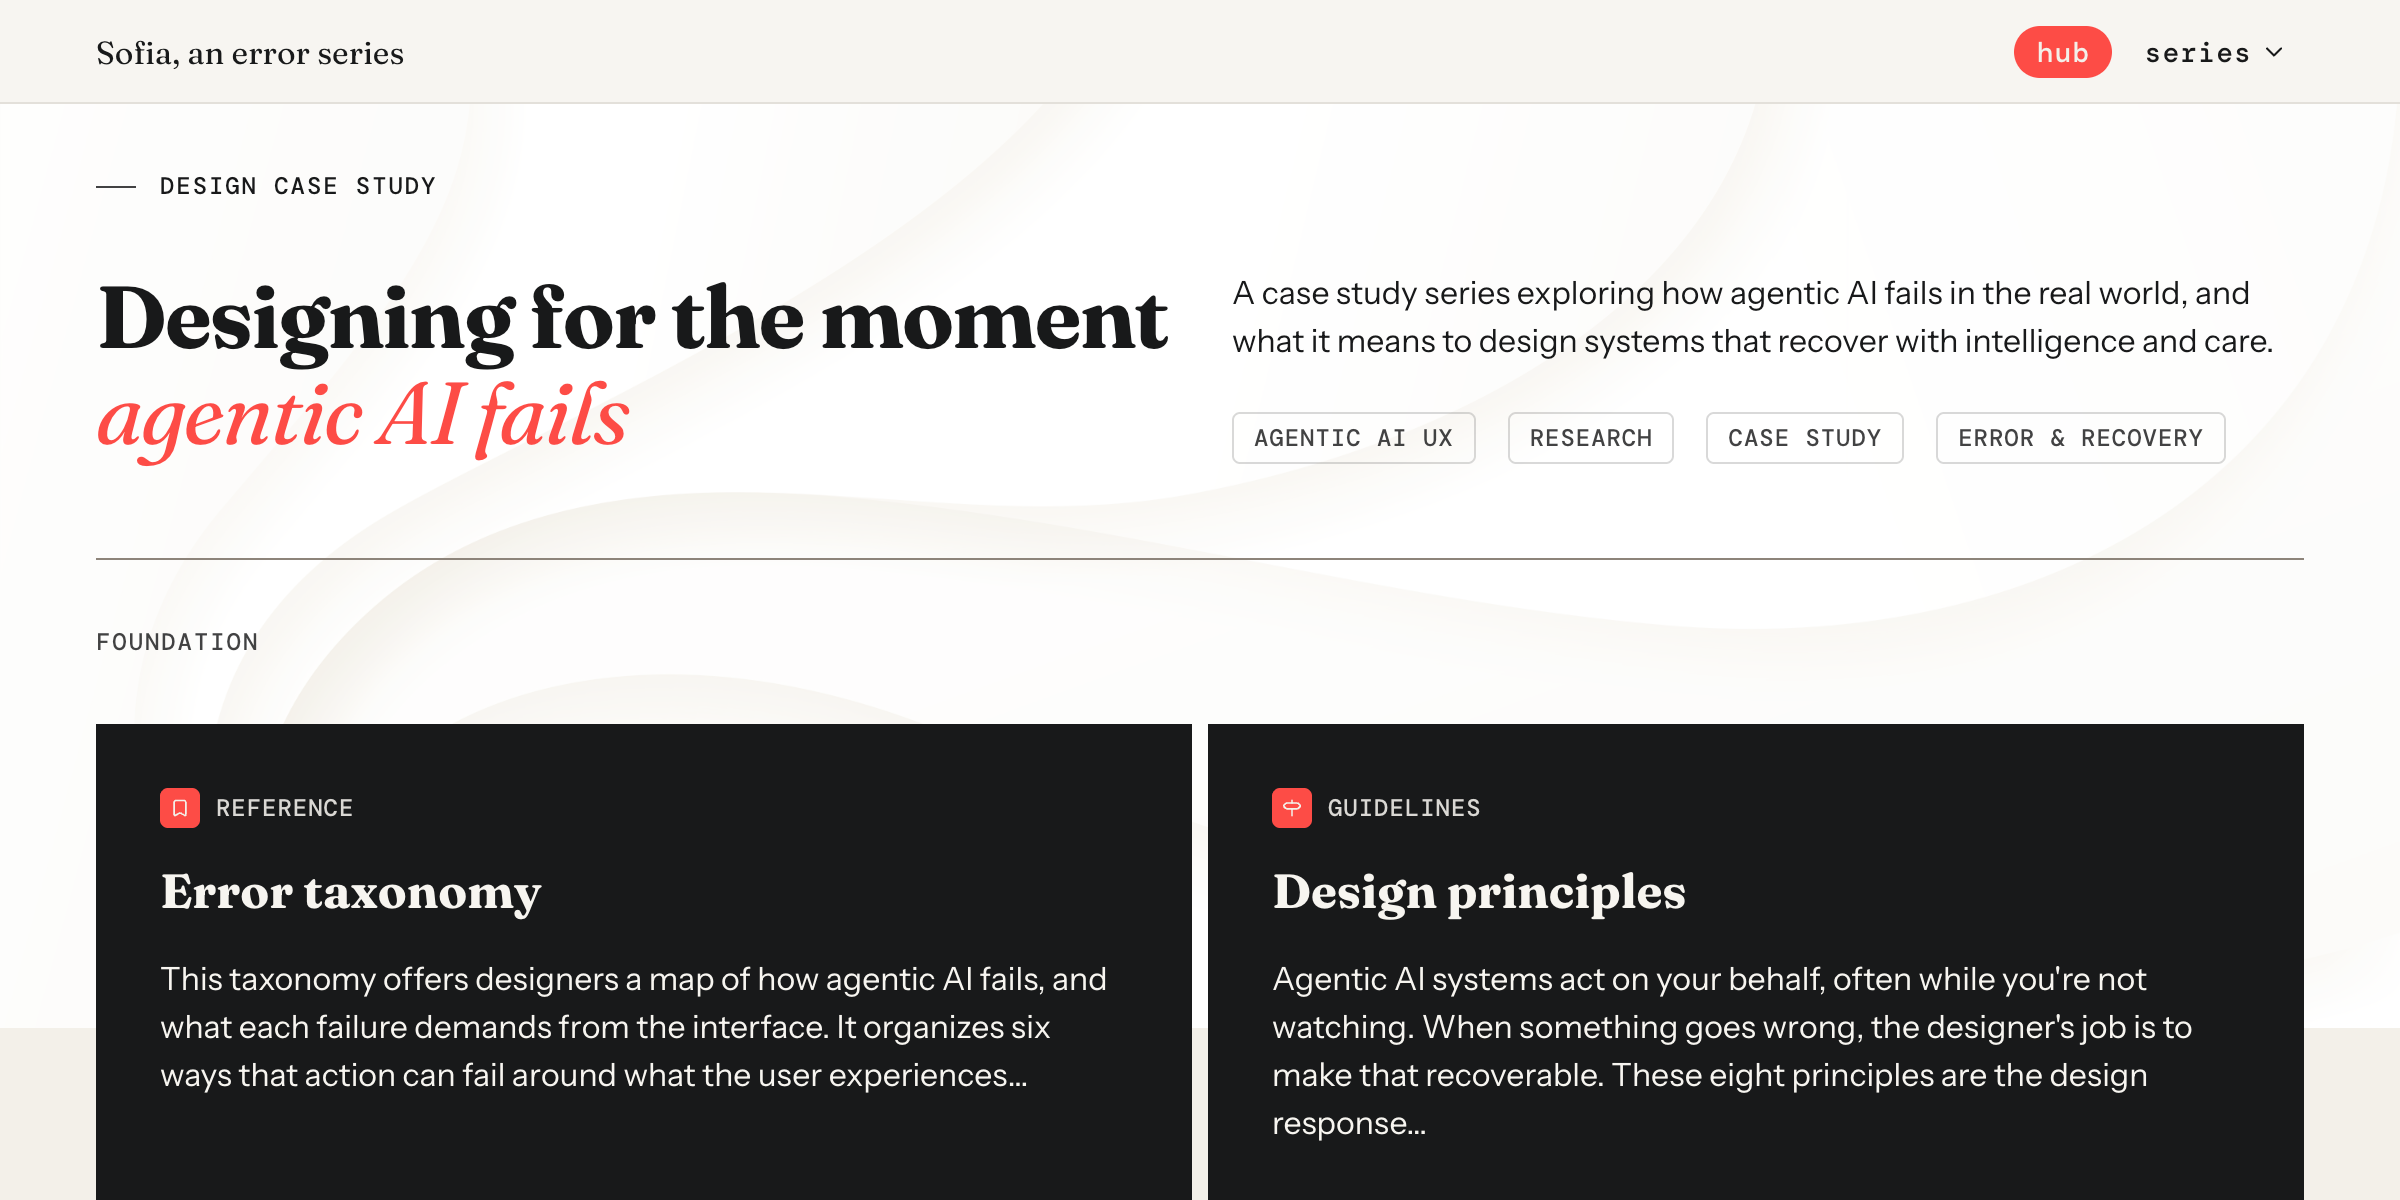
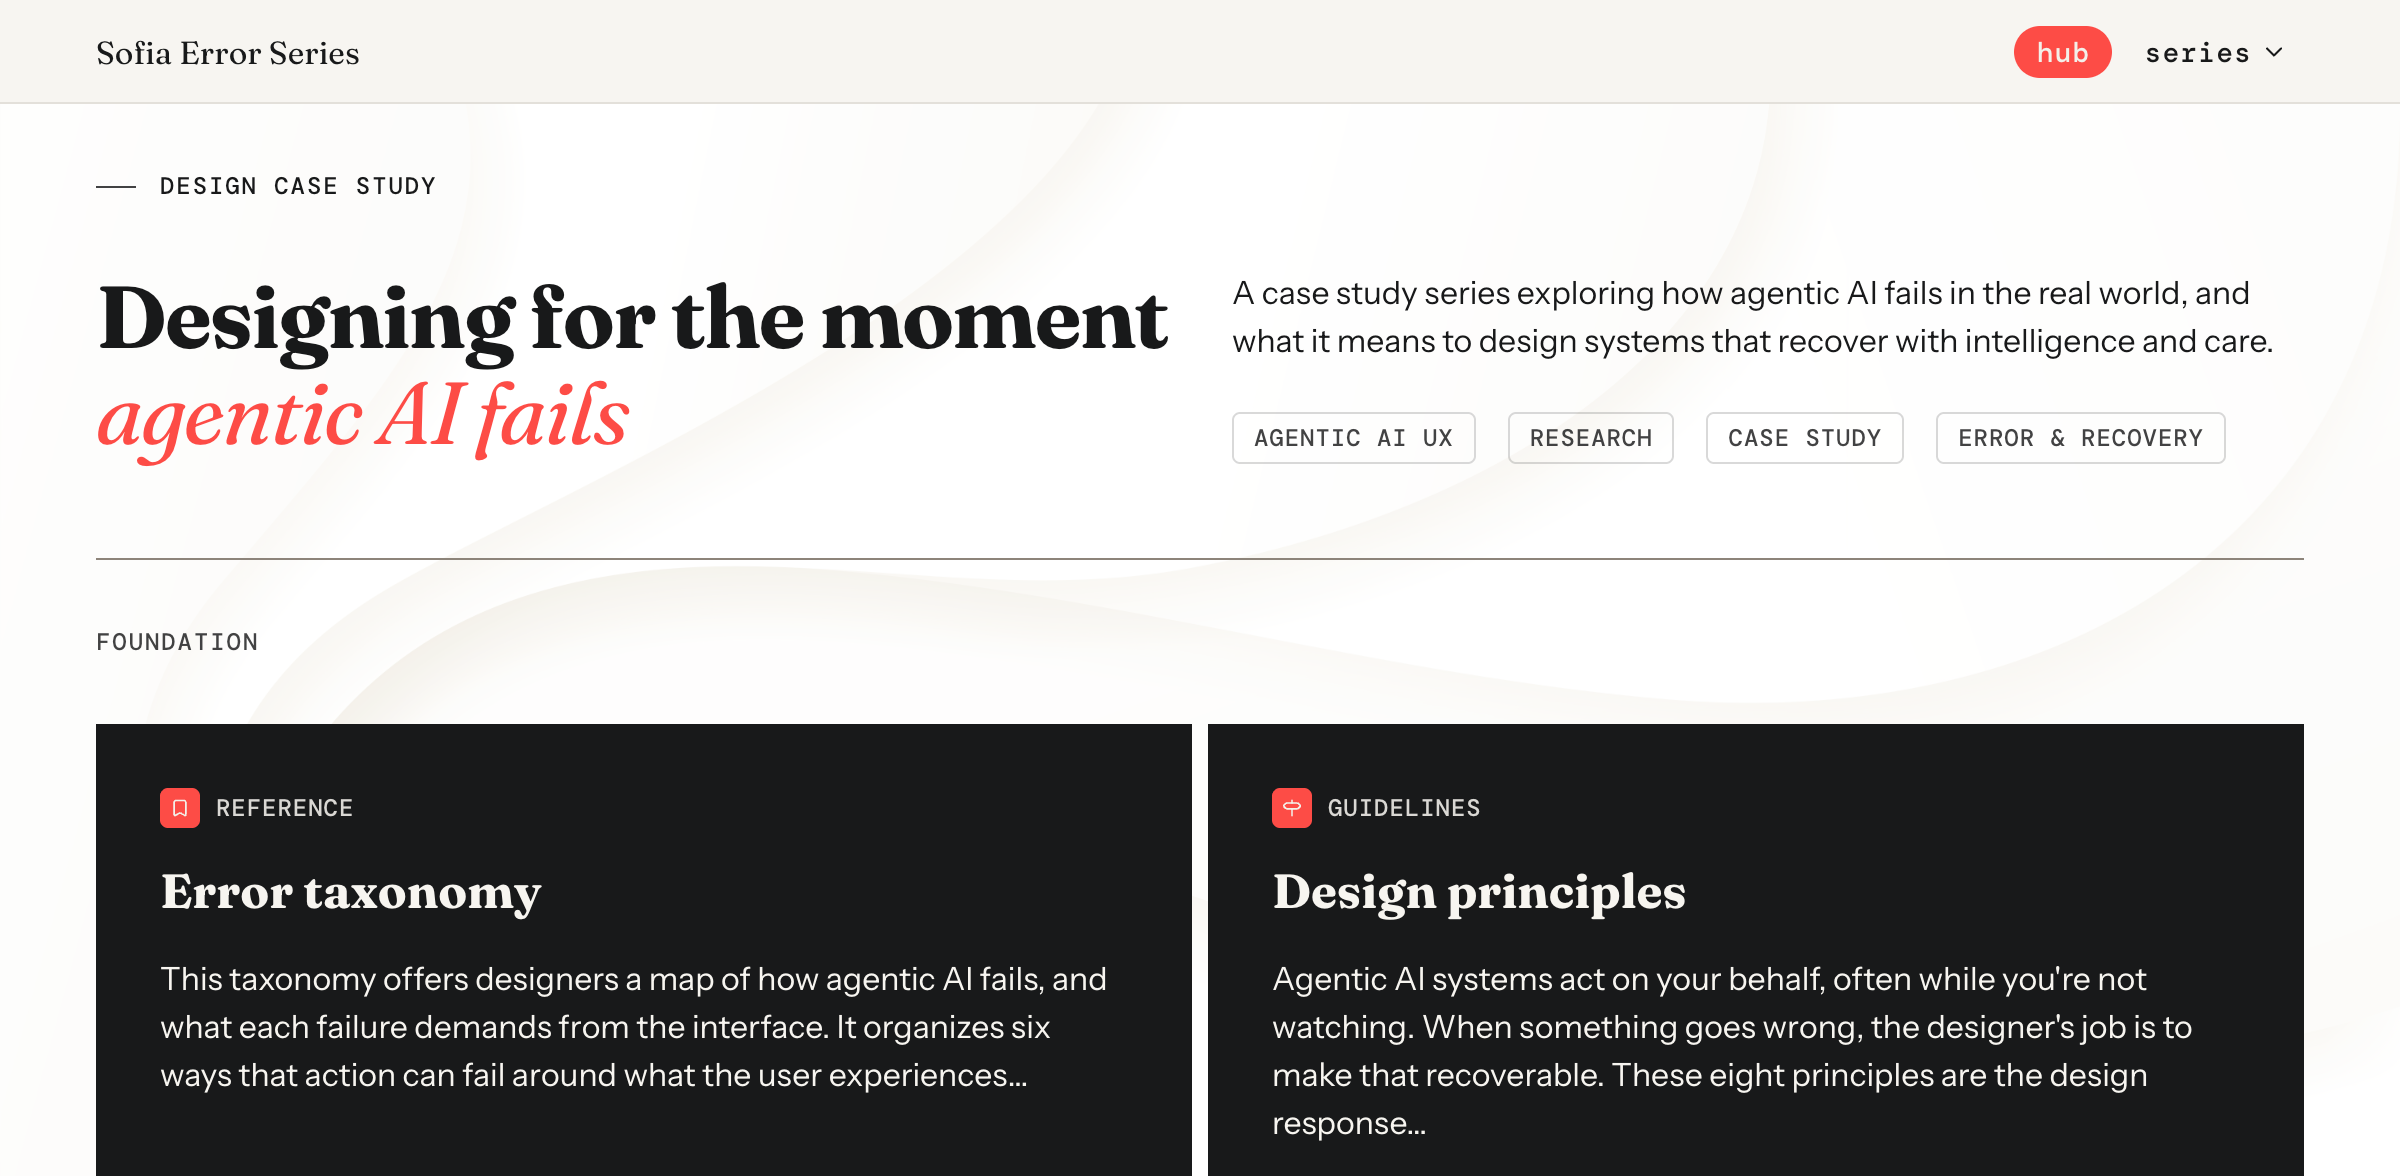
sofia hero image fix

diff --git a/src/pages/work/ErrorSeries.jsx b/src/pages/work/ErrorSeries.jsx
@@ -21,7 +21,7 @@ const tldr = {
       </p>
 
       <p>
-        Sofia Error Series, is a design exploration. Written as a case study
+        Sofia Error Series is a design exploration. Written as a case study
         microsite, it comprises an error taxonomy, a set of design principles,
         and an interactive prototype to ground the thinking in something
         buildable. Episode one traces a partial completion failure, and presents
